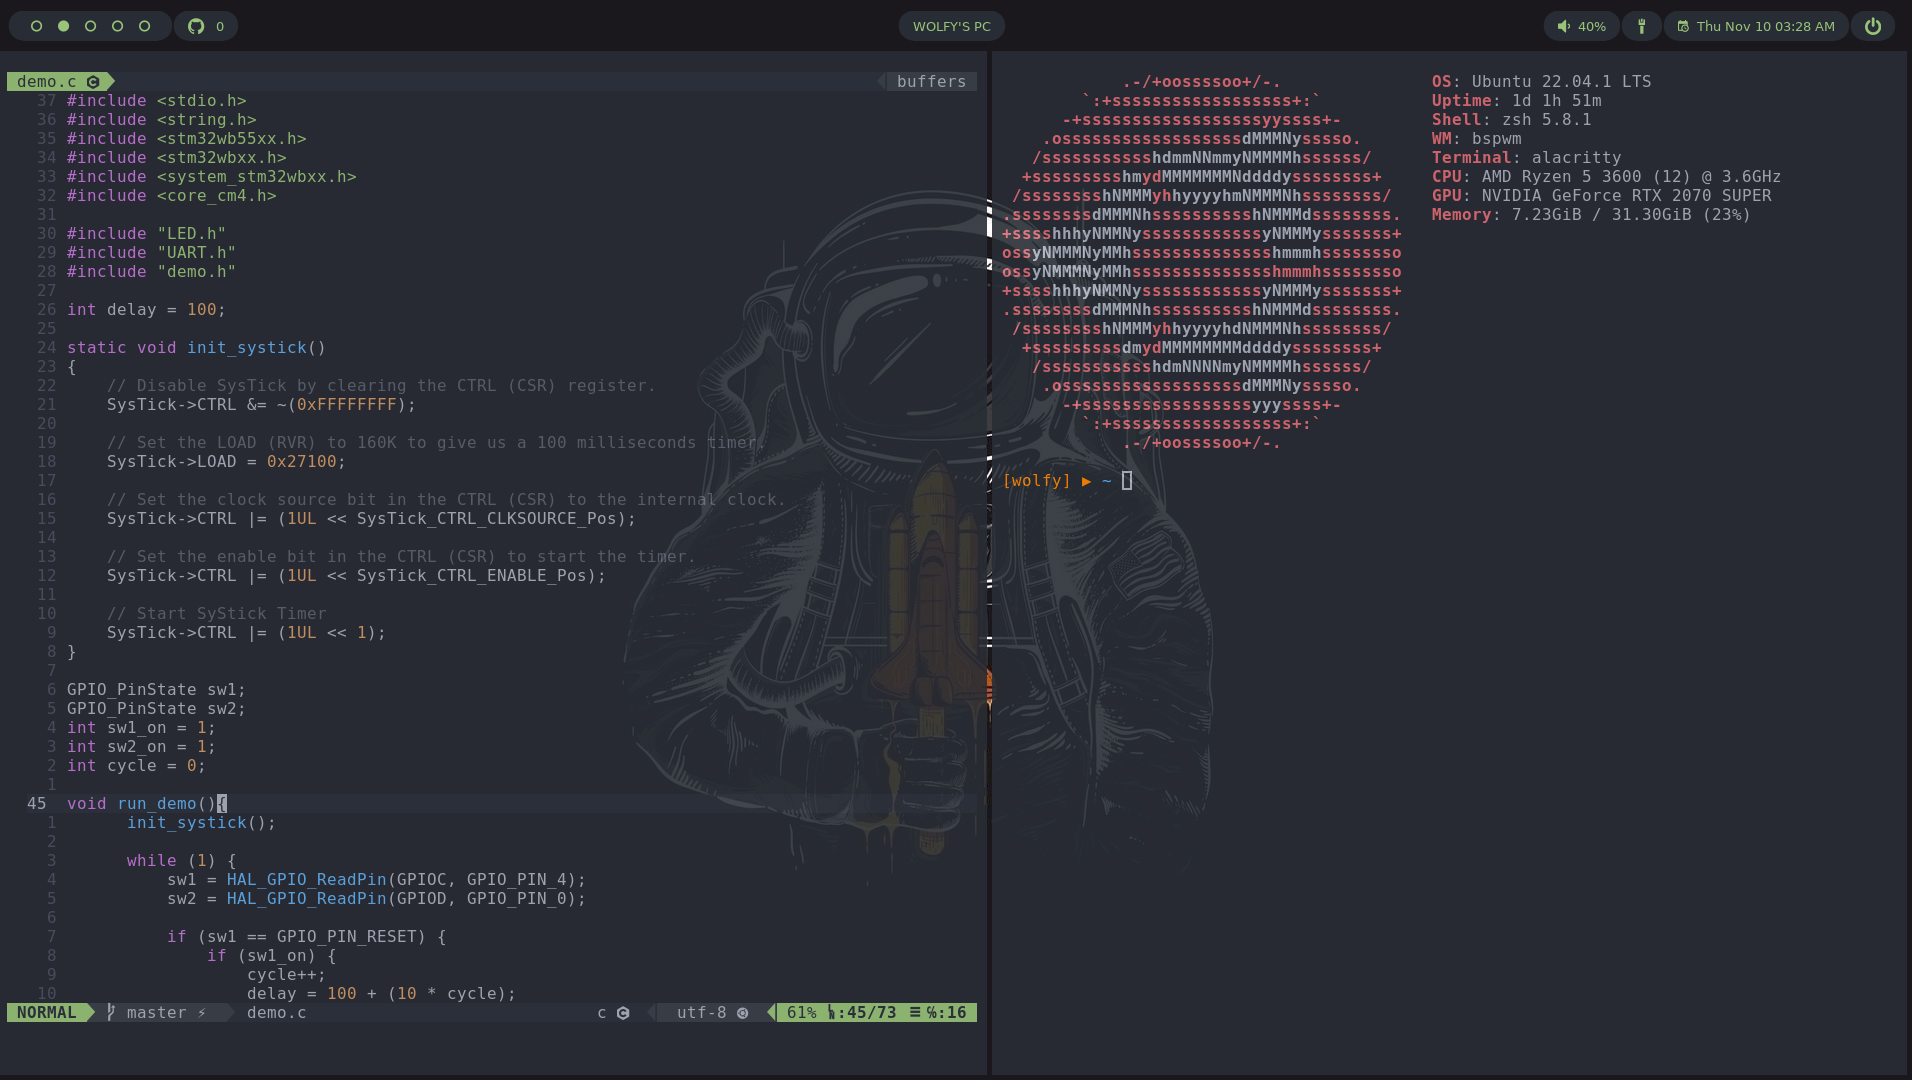
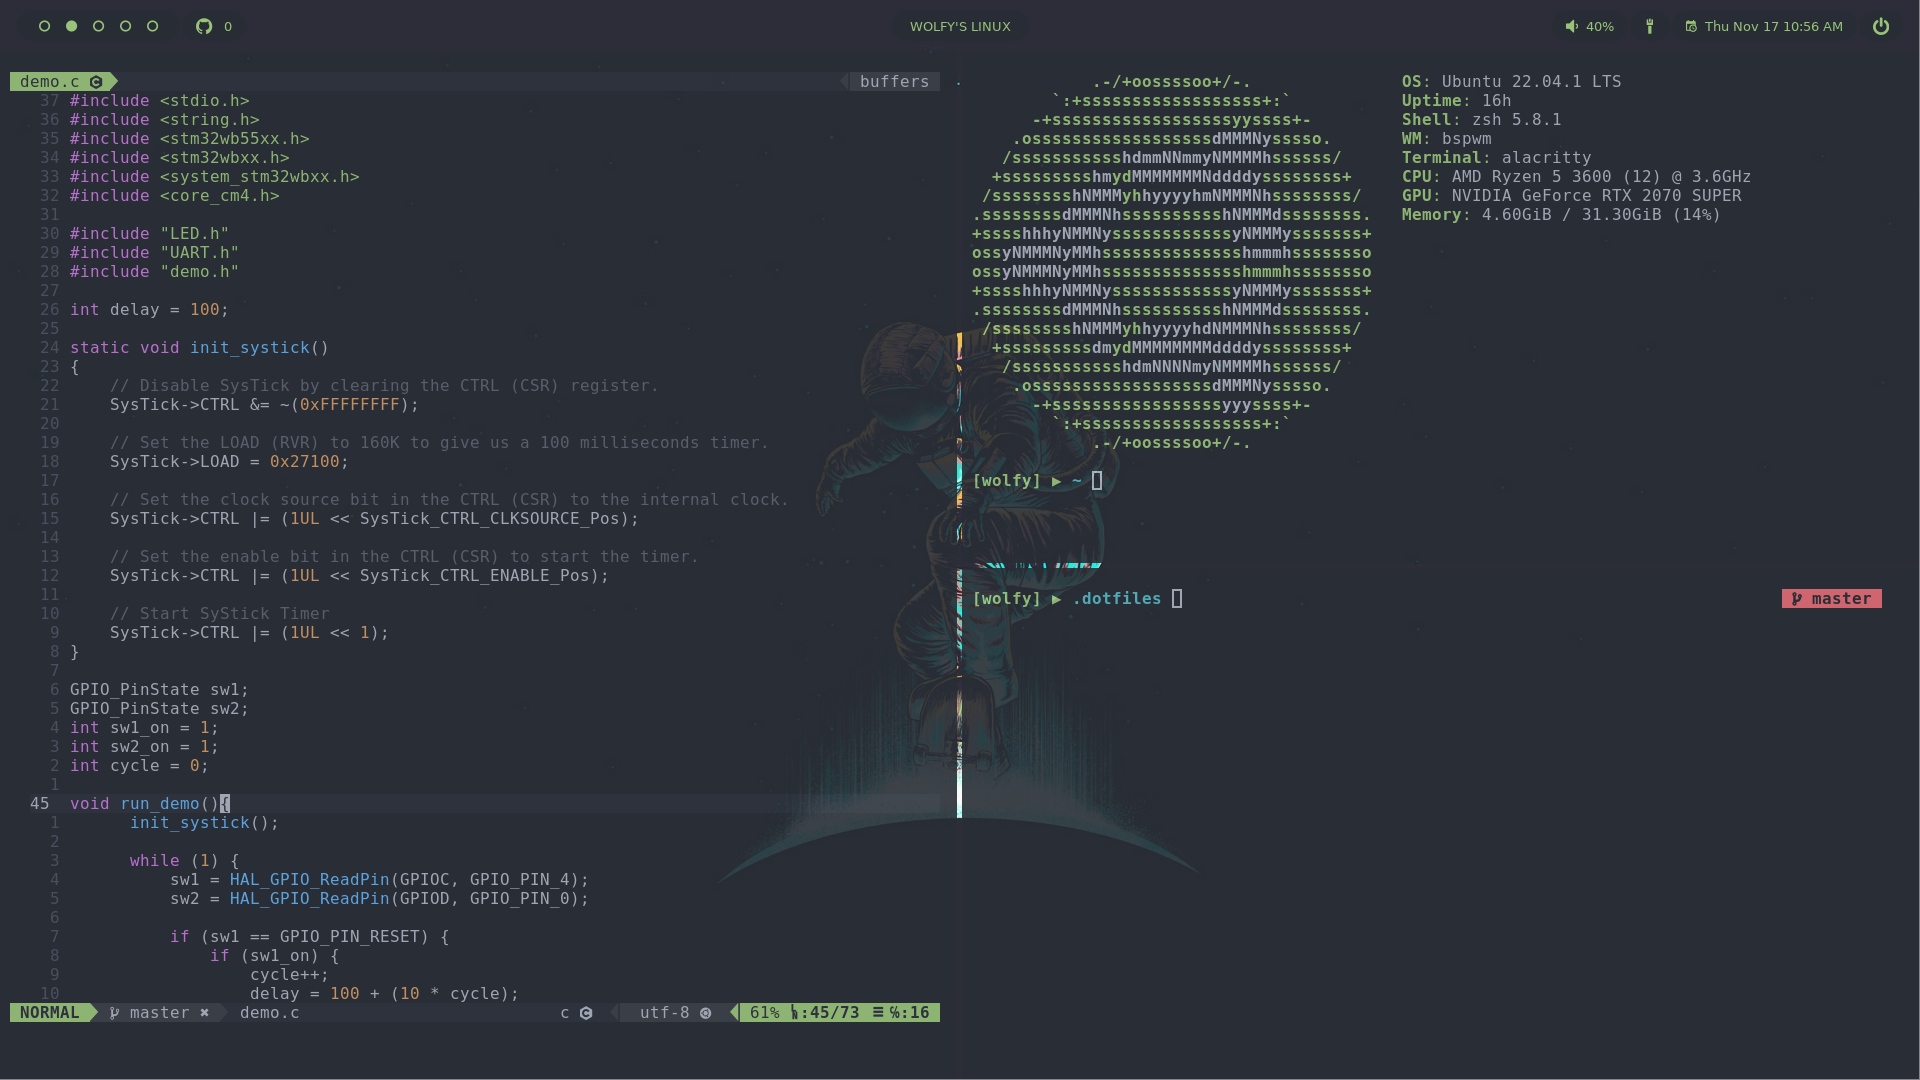
Added gitgutter and updated README

diff --git a/README.md b/README.md
@@ -37,6 +37,7 @@
 - [vim-commentary](https://github.com/tpope/vim-commentary) - Comment stuff out
 - [vim-devicons](https://github.com/ryanoasis/vim-devicons) - Adds file type icons to Vim plugins such as: NERDTree, vim-airline, CtrlP, unite, Denite, lightline, vim-startify and many more
 - [vim-fugitive](https://github.com/tpope/vim-fugitive) - A Git wrapper so awesome, it should be illegal
+- [vim-gitgutter](https://github.com/airblade/vim-gitgutter) - A Vim plugin which shows git diff markers in the sign column and stages/previews/undoes hunks and partial hunks.
 - [vim-heritage](https://github.com/jessarcher/vim-heritage) - Automatically create missing parent directories when saving a new file
 - [vim-lastplace](https://github.com/farmergreg/vim-lastplace) - Intelligently reopen files at your last edit position in Vim
 - [vim-one](https://github.com/rakr/vim-one) - Adaptation of one-light and one-dark colorschemes for Vim
